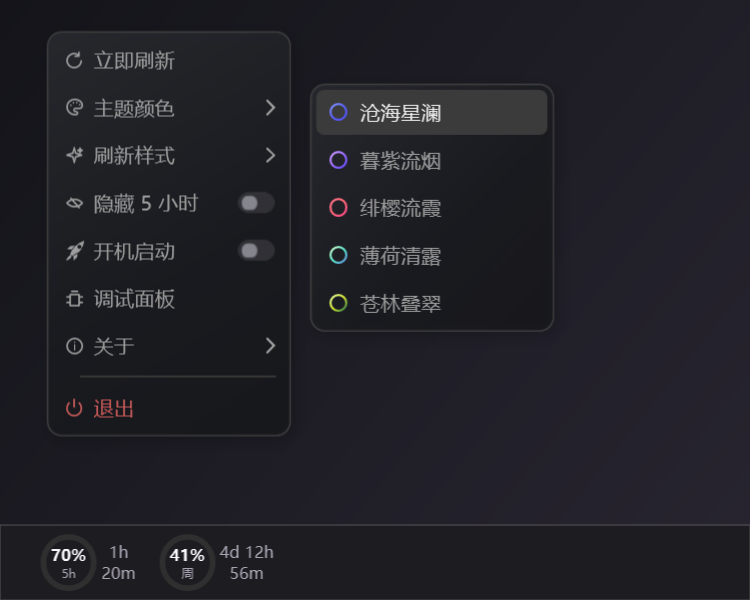
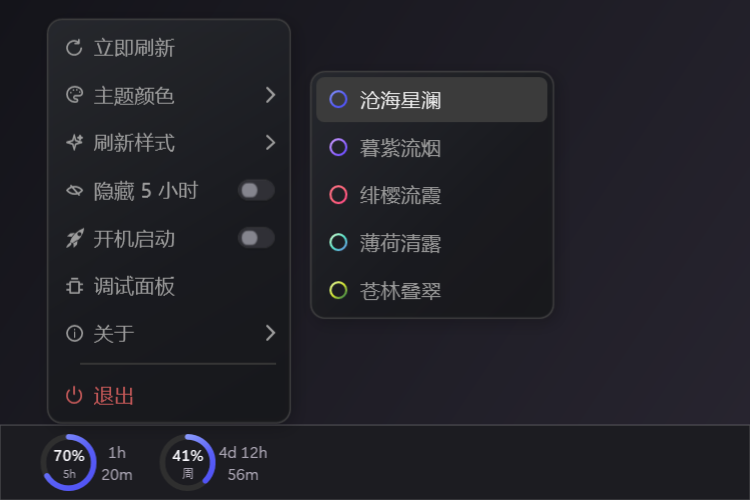
docs: fix interface preview rendering (#14)

diff --git a/tests/CodexUsageBar.App.Tests/ReadmeInterfacePreviewRenderTests.cs b/tests/CodexUsageBar.App.Tests/ReadmeInterfacePreviewRenderTests.cs
@@ -36,8 +36,12 @@ public sealed class ReadmeInterfacePreviewRenderTests
         try
         {
             window.ApplySystemTheme(systemTheme);
+            WidgetWindow.ReplaceTheme(
+                window.Resources,
+                WidgetWindow.ResolveThemeResourceName("QuotaTheme.xaml", systemTheme));
             ShowOffscreen(window);
 
+            Assert.IsType<LinearGradientBrush>(window.FindResource("QuotaProgressBrush"));
             var widget = Render(window, dpi);
             var menu = Assert.IsType<ContextMenu>(window.WidgetRoot.ContextMenu);
             menu.Resources.MergedDictionaries.Add(CreateMenuResources(systemTheme));
@@ -74,7 +78,7 @@ public sealed class ReadmeInterfacePreviewRenderTests
             Assert.True(submenuBitmap.PixelWidth > 0);
             Assert.True(submenuBitmap.PixelHeight > 0);
             Assert.Equal(750, preview.PixelWidth);
-            Assert.Equal(600, preview.PixelHeight);
+            Assert.Equal(500, preview.PixelHeight);
             Save(preview, fileName);
         }
         finally
@@ -180,15 +184,22 @@ public sealed class ReadmeInterfacePreviewRenderTests
         int dpi)
     {
         const double width = 480;
-        const double height = 384;
+        const double height = 320;
         const double taskbarHeight = 48;
+        const double menuChromeMargin = 12;
         const double menuX = 18;
-        const double menuY = 8;
         var menuSize = ToDipSize(menu);
         var submenuSize = ToDipSize(submenu);
         var widgetSize = ToDipSize(widget);
-        var submenuX = menuX + menuSize.Width - 12;
+        var taskbarTop = height - taskbarHeight;
+        var onePhysicalPixelDip = 96d / dpi;
+        var menuY =
+            taskbarTop - menuSize.Height + menuChromeMargin - onePhysicalPixelDip;
+        var submenuX = menuX + menuSize.Width - menuChromeMargin;
         var submenuY = Math.Max(8, menuY + themeItemOffsetY - 12);
+        var visibleMenuBottom = menuY + menuSize.Height - menuChromeMargin;
+
+        Assert.Equal(taskbarTop - onePhysicalPixelDip, visibleMenuBottom, precision: 6);
 
         var bitmap = new RenderTargetBitmap(
             (int)Math.Ceiling(width * dpi / 96d),
